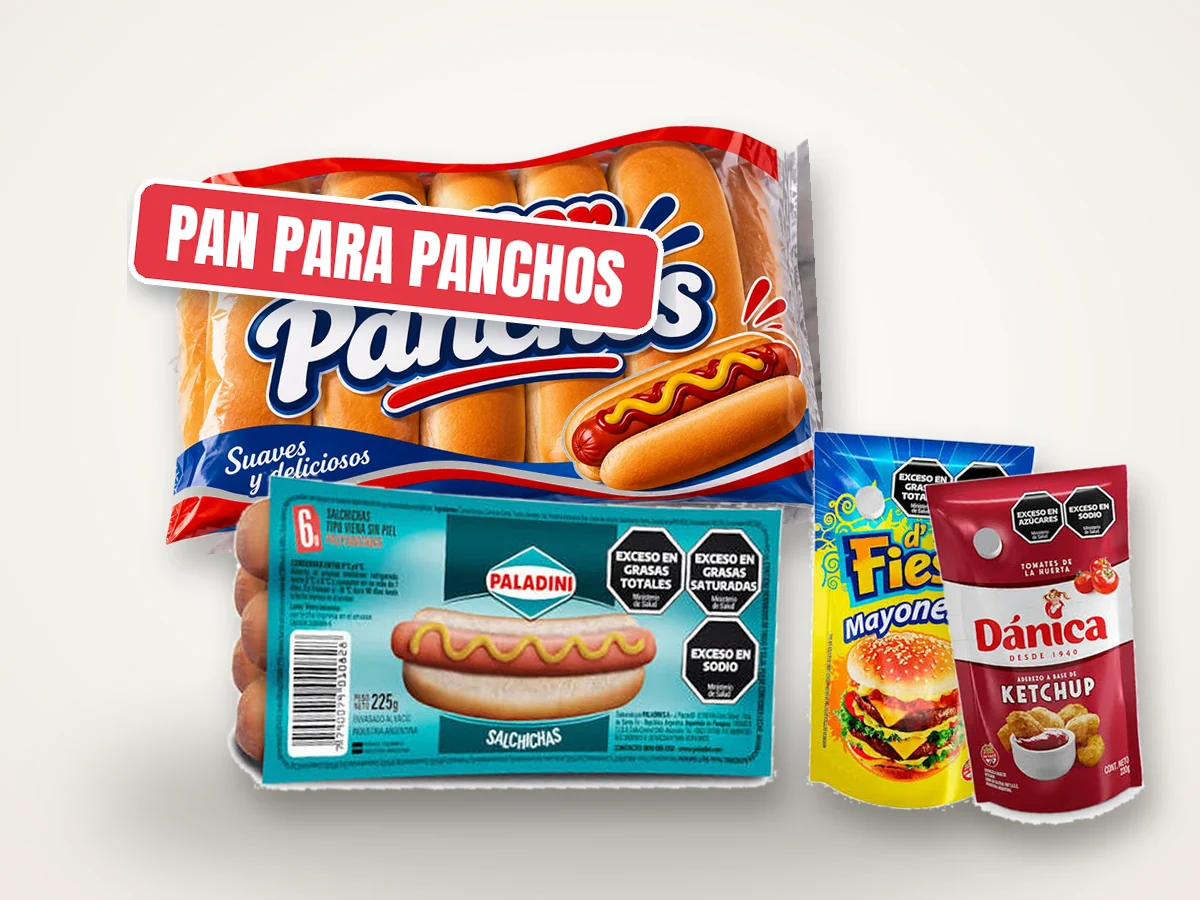
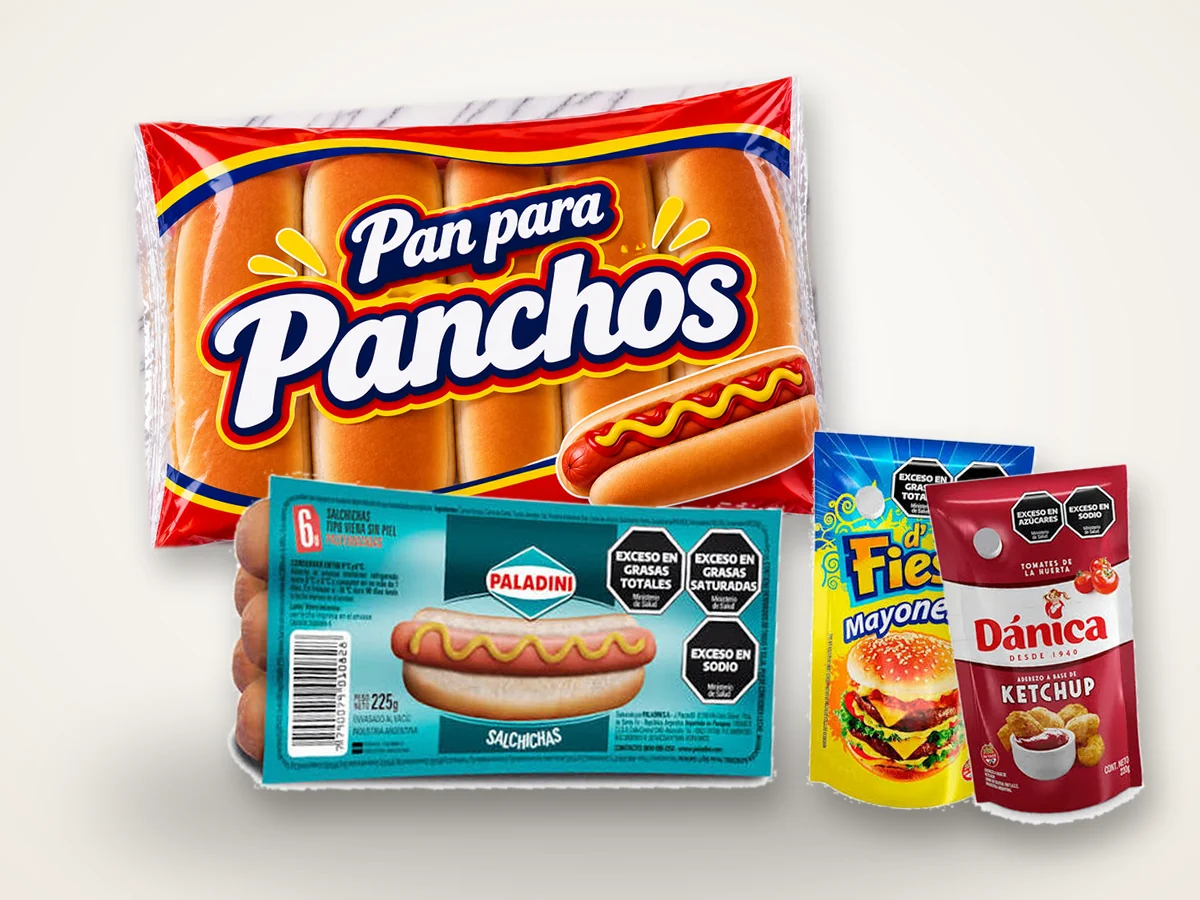
Pan para panchos real, precios de congelados y sin sección de aderezos
- Combo Panchos Paladini con la foto del pan para panchos
- Precios de congelados según los carteles del local
- Nuevo: Hamburguesas La Muñeca 198 g x2
- Se quita la sección Aderezos y extras
- Papas pay +$1.000 en todos los combos de panchos

Claude-Session: https://claude.ai/code/session_018TW5pR3W6wvbYrCa5wfTa9

Changed region(s): [[0.0925, 0.0622, 0.7092, 0.6222]]

diff --git a/src/data/combos.js b/src/data/combos.js
@@ -69,18 +69,14 @@ import mccainClasicas from '../assets/img/products/mccain-clasicas.webp'
 import mccainNoisette from '../assets/img/products/mccain-noisette.webp'
 import oasisConitos from '../assets/img/products/oasis-conitos.webp'
 import oasisChalitas from '../assets/img/products/oasis-chalitas.webp'
-import parmesanaChimichurri from '../assets/img/products/parmesana-chimichurri.webp'
-import parmesanaCriolla from '../assets/img/products/parmesana-criolla.webp'
-import danicaCheddar from '../assets/img/products/danica-cheddar.webp'
 import vegetalexBurger from '../assets/img/products/vegetalex-burger.webp'
-import tonaditaDipCheddar from '../assets/img/products/tonadita-dip-cheddar.webp'
-import carbonLosLenos from '../assets/img/products/carbon-los-lenos.webp'
 import paladiniMedallonesPollo from '../assets/img/products/paladini-medallones-pollo.webp'
 import paladiniPapasBaston from '../assets/img/products/paladini-papas-baston.webp'
 import swiftCrunchies from '../assets/img/products/swift-crunchies.webp'
 import sadiaGoldenChicken from '../assets/img/products/sadia-golden-chicken.webp'
 import swiftPalitosPollo from '../assets/img/products/swift-palitos-pollo.webp'
 import granjaDelSolMilanesas from '../assets/img/products/granja-del-sol-milanesas.webp'
+import munecaXxlPack from '../assets/img/products/muneca-xxl.webp'
 import oasisPapasTradicional from '../assets/img/products/oasis-papas-tradicional.webp'
 
 /**
@@ -100,7 +96,7 @@ export const categories = [
     id: 'panchos',
     label: 'Panchos',
     title: 'Combos de panchos',
-    tagline: 'Salchichas, pan y aderezos para armar la panchada. Sumale papas pay por $1.000 más.',
+    tagline: 'Salchichas, pan y aderezos para armar la panchada. Sumale papas pay por $1.000 más a cualquier combo.',
     cover: superPanchosPaladini,
   },
   {
@@ -124,13 +120,6 @@ export const categories = [
     tagline: 'Papas, pollo, vegetales y frutas congeladas. Salado y dulce, listos para el freezer.',
     groups: ['Salado', 'Dulce'],
     cover: catCongelados,
-  },
-  {
-    id: 'aderezos',
-    label: 'Aderezos y más',
-    title: 'Aderezos y extras',
-    tagline: 'Salsas, dips y carbón para completar la juntada.',
-    cover: parmesanaCriolla,
   },
 ]
 
@@ -419,7 +408,7 @@ export const combos = [
     brand: 'Swift',
     weight: '400 g',
     description: 'Formados de carne de pollo rebozados, supercongelados.',
-    tiers: null,
+    tiers: [{ qty: null, price: 5900 }],
     image: swiftBocaditos,
     pack: true,
   },
@@ -431,7 +420,7 @@ export const combos = [
     brand: 'Simplot',
     weight: '700 g',
     description: 'Papas prefritas supercongeladas, corte tradicional.',
-    tiers: null,
+    tiers: [{ qty: null, price: 5900 }],
     image: simplotPapas,
     pack: true,
   },
@@ -455,7 +444,7 @@ export const combos = [
     brand: 'Green Life',
     weight: '550 g',
     description: 'Sin conservantes, fuente de fibra y bajo en sodio.',
-    tiers: null,
+    tiers: [{ qty: null, price: 5000 }],
     image: glEspinaca,
     pack: true,
   },
@@ -479,7 +468,7 @@ export const combos = [
     brand: 'Green Life',
     weight: '350 g',
     description: 'Choclo amarillo en granos. Sin conservantes y bajo en sodio.',
-    tiers: null,
+    tiers: [{ qty: null, price: 4000 }],
     image: glChoclo,
     pack: true,
   },
@@ -491,7 +480,7 @@ export const combos = [
     brand: 'Green Life',
     weight: '350 g',
     description: 'Arvejas, chauchas, choclo y zanahorias.',
-    tiers: null,
+    tiers: [{ qty: null, price: 4300 }],
     image: glPrimavera,
     pack: true,
   },
@@ -505,7 +494,7 @@ export const combos = [
     brand: 'Green Life',
     weight: '550 g',
     description: 'Frutillas enteras, listas para consumir.',
-    tiers: null,
+    tiers: [{ qty: null, price: 6900 }],
     image: glFrutillas,
     pack: true,
   },
@@ -529,7 +518,7 @@ export const combos = [
     brand: 'Green Life',
     weight: '550 g',
     description: 'Frutillas, moras y frambuesas enteras.',
-    tiers: null,
+    tiers: [{ qty: null, price: 9900 }],
     image: glMixBerries,
     pack: true,
   },
@@ -540,7 +529,7 @@ export const combos = [
     name: 'Arándanos Green Life',
     brand: 'Green Life',
     description: 'Arándanos listos para consumir.',
-    tiers: null,
+    tiers: [{ qty: null, price: 6900 }],
     image: glArandanos, // REEMPLAZAR: la foto disponible es chica
     pack: true,
   },
@@ -587,7 +576,7 @@ export const combos = [
     brand: 'Paladini',
     weight: '1,1 kg',
     description: 'Papas prefritas bastón, aptas air fryer. Sin gluten.',
-    tiers: null,
+    tiers: [{ qty: null, price: 7900 }],
     image: paladiniPapasBaston,
     photo: true,
   },
@@ -599,7 +588,7 @@ export const combos = [
     brand: 'McCain',
     weight: '400 g',
     description: 'Papas prefritas bastón, pack XS. Libres de gluten.',
-    tiers: null,
+    tiers: [{ qty: null, price: 3900 }],
     image: mccainClasicas,
     photo: true,
   },
@@ -611,7 +600,7 @@ export const combos = [
     brand: 'McCain',
     weight: '400 g',
     description: 'Croquetas de papa con caritas, ideales para air fryer.',
-    tiers: null,
+    tiers: [{ qty: null, price: 5000 }],
     image: mccainSmiles,
     photo: true,
   },
@@ -635,7 +624,7 @@ export const combos = [
     brand: 'BemBrasil',
     weight: '1,05 kg',
     description: 'Bolitas de puré de papa prefritas, aptas air fryer.',
-    tiers: null,
+    tiers: [{ qty: null, price: 7900 }],
     image: bembrasilNoisette,
     photo: true,
   },
@@ -647,7 +636,7 @@ export const combos = [
     brand: 'BemBrasil',
     weight: '1,05 kg',
     description: 'Papas con caritas, las preferidas de los chicos.',
-    tiers: null,
+    tiers: [{ qty: null, price: 7900 }],
     image: bembrasilCarinhas, // REEMPLAZAR: la foto disponible es chica
     pack: true,
   },
@@ -659,7 +648,7 @@ export const combos = [
     brand: 'Swift',
     weight: '380 g',
     description: 'Formados de carne de pollo rebozados, supercongelados.',
-    tiers: null,
+    tiers: [{ qty: null, price: 5900 }],
     image: swiftCrunchies,
     photo: true,
   },
@@ -671,7 +660,7 @@ export const combos = [
     brand: 'Swift',
     weight: '260 g',
     description: 'Formados de carne de pollo rebozados.',
-    tiers: null,
+    tiers: [{ qty: null, price: 4200 }],
     image: swiftPalitosPollo,
     photo: true,
   },
@@ -687,6 +676,18 @@ export const combos = [
     photo: true,
   },
   {
+    id: 'muneca-198-x2',
+    category: 'congelados',
+    group: 'Salado',
+    name: 'Hamburguesas La Muñeca 198 g x2',
+    brand: 'La Muñeca',
+    weight: '396 g',
+    description: 'Dos hamburguesas de carne vacuna de 198 g, supercongeladas.',
+    tiers: [{ qty: null, price: 6900 }],
+    image: munecaXxlPack,
+    pack: true,
+  },
+  {
     id: 'paladini-medallones-pollo',
     category: 'congelados',
     group: 'Salado',
@@ -694,7 +695,7 @@ export const combos = [
     brand: 'Paladini',
     weight: '150 g',
     description: 'Dos medallones de pollo rebozados, al horno o fritos.',
-    tiers: null,
+    tiers: [{ qty: null, price: 2900 }],
     image: paladiniMedallonesPollo,
     photo: true,
   },
@@ -705,7 +706,7 @@ export const combos = [
     name: 'Milanesas de Soja con Espinaca Granja del Sol x4',
     brand: 'Granja del Sol',
     description: 'Cuatro milanesas de soja con espinaca.',
-    tiers: null,
+    tiers: [{ qty: null, price: 4800 }],
     image: granjaDelSolMilanesas,
     photo: true,
   },
@@ -717,62 +718,8 @@ export const combos = [
     brand: 'Vegetalex',
     weight: '226 g',
     description: 'Hamburguesas con ingredientes de origen vegetal, 2 de 113 g.',
-    tiers: null,
+    tiers: [{ qty: null, price: 6900 }],
     image: vegetalexBurger,
-    photo: true,
-  },
-  {
-    id: 'parmesana-chimichurri',
-    category: 'aderezos',
-    name: 'Chimichurri La Parmesana 300 ml',
-    brand: 'La Parmesana',
-    weight: '300 ml',
-    description: 'El chimichurri para el asado y los choris.',
-    tiers: null,
-    image: parmesanaChimichurri,
-    photo: true,
-  },
-  {
-    id: 'parmesana-criolla',
-    category: 'aderezos',
-    name: 'Salsa Criolla La Parmesana 300 ml',
-    brand: 'La Parmesana',
-    weight: '300 ml',
-    description: 'Salsa criolla lista para servir.',
-    tiers: null,
-    image: parmesanaCriolla,
-    photo: true,
-  },
-  {
-    id: 'danica-cheddar',
-    category: 'aderezos',
-    name: 'Salsa sabor Cheddar Dánica',
-    brand: 'Dánica',
-    description: 'Ideal para dipear papas y nachos.',
-    tiers: null,
-    image: danicaCheddar,
-    photo: true,
-  },
-  {
-    id: 'tonadita-dip-cheddar',
-    category: 'aderezos',
-    name: 'Dip Cheddar Tonadita 180 g',
-    brand: 'Tonadita',
-    weight: '180 g',
-    description: 'Queso procesado sabor cheddar, apto microondas. Sin gluten.',
-    tiers: null,
-    image: tonaditaDipCheddar,
-    photo: true,
-  },
-  {
-    id: 'carbon-los-lenos',
-    category: 'aderezos',
-    name: 'Carbón Vegetal Los Leños 4 kg',
-    brand: 'Los Leños',
-    weight: '4 kg',
-    description: 'Carbón vegetal premium para el asado.',
-    tiers: [{ qty: null, price: 5500 }], // precio tomado del cartel de oferta del local: confirmar
-    image: carbonLosLenos,
     photo: true,
   },
 ]
